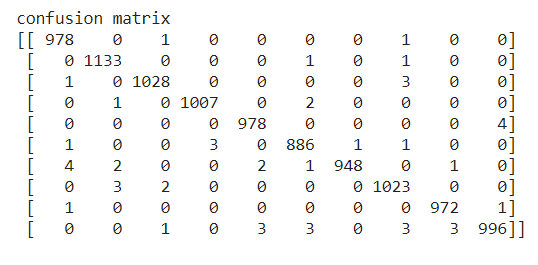
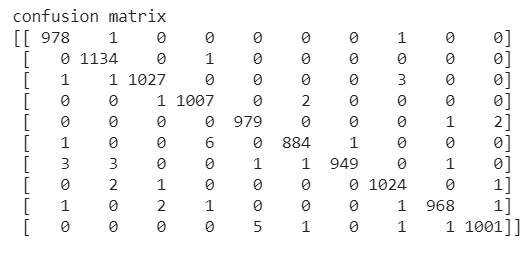
update_1

diff --git a/README.md b/README.md
@@ -41,21 +41,25 @@ The learning curves obtained from the training on the dataset can be seen below.
 
 The observations during the training process are:
 
-The highest valued results during the training were obtained at Epoch 3 as I cancelled training my model after it has reached 98% accuracy with following specifications:
+The highest valued results during the training were obtained at Epoch :
 
-Training accuracy   - 0.9824 
+Training accuracy   - 0.9982 
 
-Validation accuracy - 0.9903
+Validation accuracy - 0.9945
 
-Training Loss       - 0.0572
+Training Loss       - 0.0066
 
-Validation Loss     - 0.0303
+Validation Loss     - 0.0197
 
-According to the theory and observation from the Learning rate graphs, we can comment that the optimum and satisfactory results for the model had been obtained. 
+According to the theory and observation from the Learning rate graphs, we can comment that the optimum and satisfactory results for the model had been obtained at Epoch 64:
 
+Training accuracy   - 0.9964
 
-"NOTE:- Accuracy will reach more than 99.5% on futher epochs. In order to save time and resources we stopped training our model after it has reached 98% accuracy."
+Validation accuracy - 0.9938
 
+Training Loss       - 0.0119
+
+Validation Loss     - 0.0221
 
 Now, for testing the trained Classifier we will be using the "test_classifier.py" or "test_classifier.ipynb" In this code the confusion matrix and the classification report were obtained for the trained model on the test dataset. The test dataset was also pre_processed. The following are the screenshots of these observations.
 
